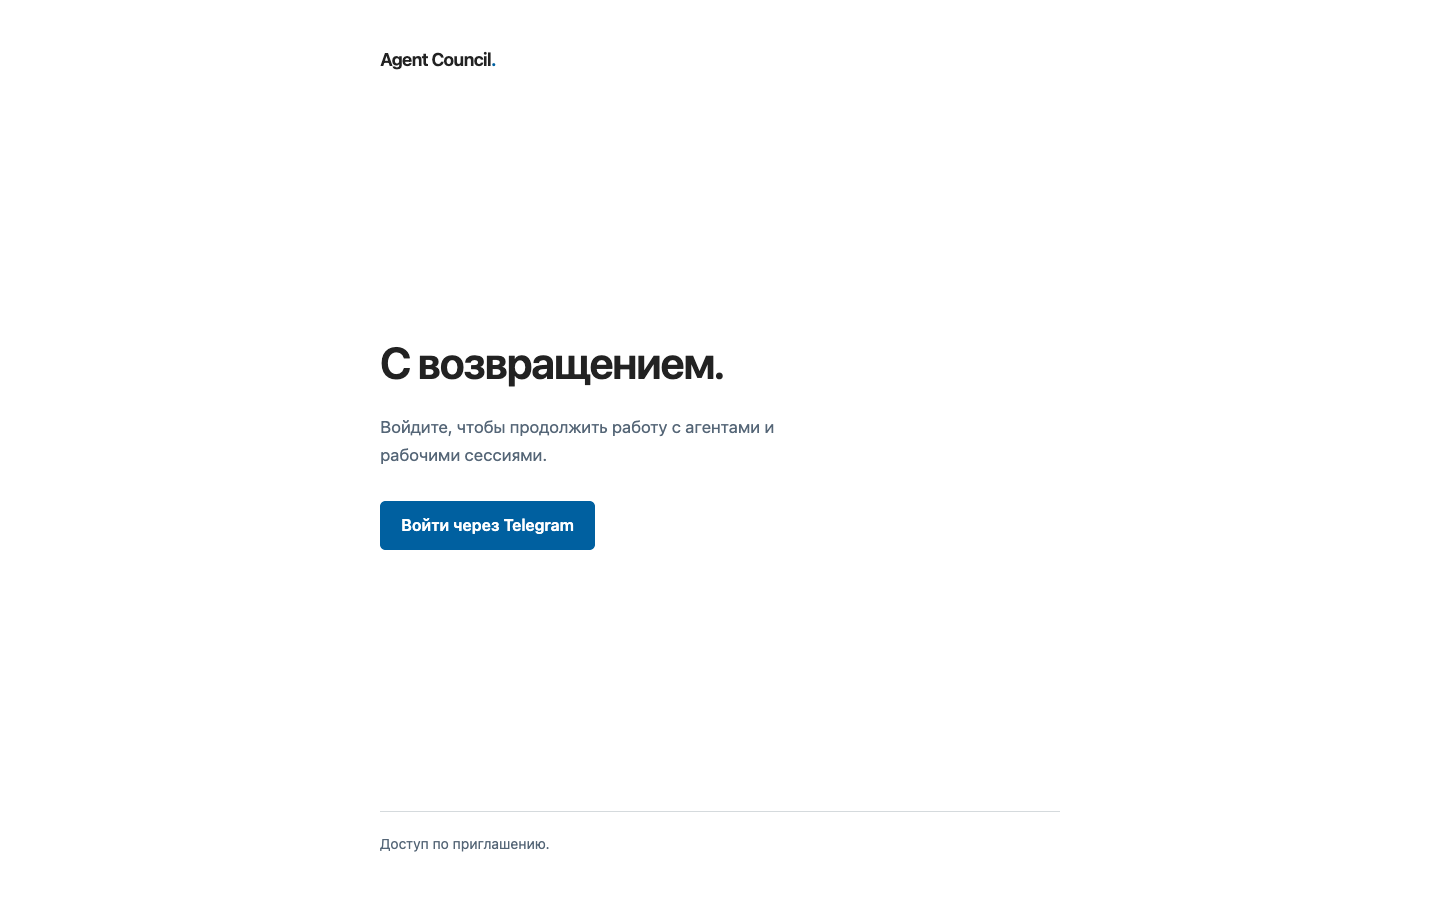
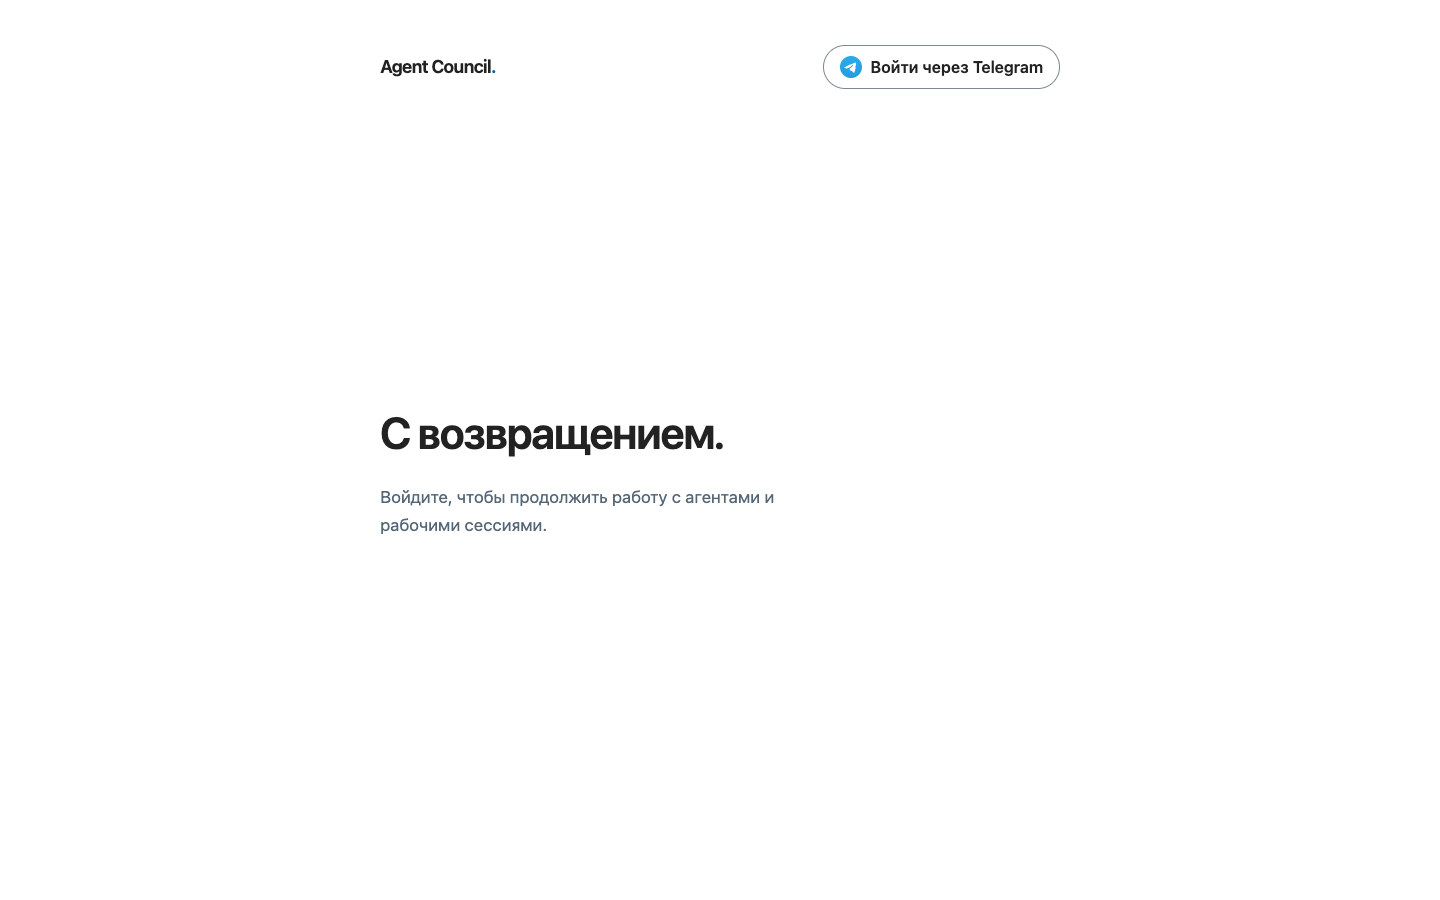
Move Telegram sign-in to the header and remove the footer

diff --git a/assets/login/login.css b/assets/login/login.css
@@ -4,12 +4,16 @@ body {
   min-block-size: 100vh;
   min-block-size: 100svh;
   display: grid;
-  grid-template-rows: auto 1fr auto;
+  grid-template-rows: auto 1fr;
   margin-block: 0;
   padding-block: clamp(1.5rem, 5vh, 3rem);
 }
 
 body > header {
+  display: flex;
+  align-items: center;
+  justify-content: space-between;
+  gap: 1rem;
   margin-block-end: 0;
 }
 
@@ -18,6 +22,7 @@ body > header {
   font-size: 1.125rem;
   font-weight: 650;
   letter-spacing: -0.035em;
+  white-space: nowrap;
 }
 
 .wordmark > span {
@@ -36,38 +41,50 @@ main {
 
 .subtitle {
   max-inline-size: 29rem;
-  margin-block-end: 2rem;
+  margin-block-end: 0;
   color: var(--beauty-muted);
   font-size: 1.0625rem;
 }
 
 .provider-list {
-  display: grid;
-  justify-items: start;
+  display: flex;
+  align-items: center;
+  flex-wrap: wrap;
   gap: 1rem;
 }
 
-/* Upstream supplies native links and forms with this stable class. */
+/* Telegram's outlined sign-in treatment; the native link retains OIDC/PKCE. */
 .provider-btn {
-  display: inline-block;
+  display: inline-flex;
+  align-items: center;
+  justify-content: center;
+  gap: 0.5rem;
   box-sizing: border-box;
   min-block-size: 2.75rem;
   max-inline-size: 100%;
-  padding: 0.75em 1.25em;
-  border: 1px solid var(--beauty-link);
-  border-radius: var(--beauty-radius);
-  background: var(--beauty-link);
-  color: var(--beauty-background);
+  padding: 0.625em 1em;
+  border: 1px solid var(--beauty-control-border);
+  border-radius: 1.5rem;
+  background: transparent;
+  color: var(--beauty-heading);
   font: var(--beauty-button-font);
   text-align: center;
   text-decoration: none;
   cursor: pointer;
+  white-space: nowrap;
 }
 
 .provider-btn:hover {
-  border-color: var(--beauty-hover);
-  background: var(--beauty-hover);
-  color: var(--beauty-background);
+  border-color: var(--beauty-heading);
+  background: var(--beauty-surface);
+  color: var(--beauty-heading);
+}
+
+.provider-icon {
+  display: block;
+  flex: none;
+  inline-size: 1.375rem;
+  block-size: 1.375rem;
 }
 
 .provider-form {
@@ -84,14 +101,14 @@ main {
   color: var(--beauty-danger);
 }
 
-body > footer {
-  margin-block-start: 0;
-  padding-block: 1.25rem 0;
-}
-
 @media (max-width: 30rem) {
-  .provider-list {
-    justify-items: stretch;
+  .provider-label-tail {
+    position: absolute;
+    inline-size: 1px;
+    block-size: 1px;
+    overflow: hidden;
+    clip-path: inset(50%);
+    white-space: nowrap;
   }
 
   main {

diff --git a/assets/login/login.html b/assets/login/login.html
@@ -10,17 +10,18 @@
 <body>
   <header>
     <span class="wordmark">Agent Council<span aria-hidden="true">.</span></span>
+    <nav aria-label="Вход">
+      <div class="provider-list">
+$PROVIDER_BUTTONS
+      </div>
+    </nav>
   </header>
   <main>
     <section class="login-panel" aria-labelledby="login-title">
       <h1 id="login-title">С возвращением.</h1>
       <p class="subtitle">Войдите, чтобы продолжить работу с агентами и рабочими сессиями.</p>
-      <div class="provider-list">
-$PROVIDER_BUTTONS
-      </div>
     </section>
   </main>
-  <footer>Доступ по приглашению.</footer>
 $PASSWORD_SCRIPT
 </body>
 </html>

diff --git a/assets/login/unavailable.html b/assets/login/unavailable.html
@@ -17,6 +17,5 @@
       <p class="subtitle">Попробуйте позже или обратитесь к владельцу рабочего пространства.</p>
     </section>
   </main>
-  <footer>Agent Council</footer>
 </body>
 </html>

diff --git a/scripts/install-login-theme.py b/scripts/install-login-theme.py
@@ -21,6 +21,13 @@ def install(renderer: Path, assets: Path) -> None:
     beauty = (vendor / "beauty.min.css").read_bytes()
     if hashlib.sha256(beauty).hexdigest() != receipt["sha256"]:
         raise SystemExit("Vendored Beauty.css checksum does not match its receipt.")
+    logo_receipt = json.loads((vendor / "telegram-logo.json").read_text(encoding="utf-8"))
+    logo = (vendor / "telegram-logo.svg").read_bytes()
+    if hashlib.sha256(logo).hexdigest() != logo_receipt["sha256"]:
+        raise SystemExit("Telegram logo checksum does not match its receipt.")
+    icon = logo.decode("utf-8").replace(
+        "<svg ", '<svg class="provider-icon" aria-hidden="true" focusable="false" ', 1
+    )
     styles = beauty.decode("utf-8") + "\n" + (assets / "login.css").read_text(encoding="utf-8")
     login = (assets / "login.html").read_text(encoding="utf-8").replace("$STYLES", styles)
     # Hermes formats its HTML with str.format: escape literal CSS braces first.
@@ -46,11 +53,17 @@ def install(renderer: Path, assets: Path) -> None:
         name = node.targets[0].id
         lines[node.lineno - 1 : node.end_lineno] = [f"{name} = {replacements[name]!r}\n"]
     themed = "".join(lines)
-    # Translate only OAuth link labels. URL generation and verification stay upstream.
+    # Brand only the link label; the official OIDC flow stays with Hermes.
     label = "f'Sign in with {html.escape(p.display_name)}</a>'"
     if themed.count(label) != 2:
         raise SystemExit("Expected OAuth link labels were not found.")
-    themed = themed.replace(label, "f'Войти через {html.escape(p.display_name)}</a>'")
+    branded_label = (
+        'f\'{_COUNCIL_TELEGRAM_ICON if p.name == "telegram-owner" else ""}\' '
+        'f\'<span>Войти<span class="provider-label-tail"> через '
+        "{html.escape(p.display_name)}</span></span></a>'"
+    )
+    themed = themed.replace(label, branded_label)
+    themed += f"\n\n_COUNCIL_TELEGRAM_ICON = {icon!r}\n"
     compile(themed, str(renderer), "exec")
     renderer.write_text(themed, encoding="utf-8")
     print("Agent Council login installed with pinned Beauty.css; auth handlers preserved.")

diff --git a/tests/integration/test_login_theme.py b/tests/integration/test_login_theme.py
@@ -40,7 +40,6 @@ class LoginThemeTests(unittest.TestCase):
             parse_qs(target.query), {"provider": ["telegram-owner"], "next": [next_path]}
         )
         self.assertIn('<main data-prefix="/council">', document)
-        self.assertIn("Войти через Telegram", document)
 
     def test_provider_labels_remain_escaped(self):
         provider = SimpleNamespace(name='test" onclick="bad', display_name="<script>bad()</script>")

diff --git a/README.md b/README.md
@@ -143,10 +143,19 @@ and Agent Council branding, with Russian copy, system fonts, responsive layout
 and automatic light/dark colors. Styling ships inside the image; the login page
 does not load a CDN, external fonts or additional JavaScript.
 
+Telegram sign-in sits in the header navigation, using the official Telegram
+logo and an outlined sign-in treatment based on Telegram's example. The button
+keeps the existing server-side OIDC/PKCE flow. On small screens the visible label
+is shorter, while its accessible name remains complete. The landing page has no footer.
+
 `assets/login/` contains the HTML and layout stylesheet. The exact generated
 Beauty artifact, its MIT license and a version/commit/checksum receipt live in
 `assets/login/vendor/`. Do not edit the vendored CSS; customize `login.css` or
 update the upstream artifact and receipt together.
+
+The official Telegram logo is bundled with its source/checksum and usage notice.
+Landing HTML, CSS and provider artwork all ship in this same Git repository and
+Docker image; no separate server-side landing directory is required.
 
 During image build, `scripts/install-login-theme.py` replaces the pinned Hermes
 HTML templates and OAuth link labels. Provider registration, auth links,

diff --git a/CHANGELOG.md b/CHANGELOG.md
@@ -3,6 +3,7 @@
 ## Unreleased
 
 - Style the Council sign-in page with pinned Beauty.css, system fonts and light/dark themes.
+- Move the Telegram-branded sign-in link to the header and remove the landing footer.
 - Add invited Telegram IDs and simple list/add/remove commands with restart rollback.
 - Add explicit Telegram owner configuration without a repository-owner fallback.
 - Keep the authentication provider registered and closed for malformed settings.
